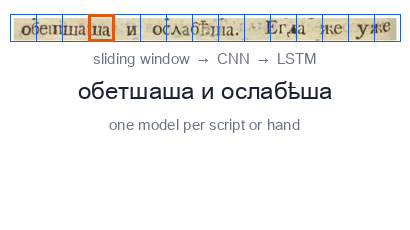
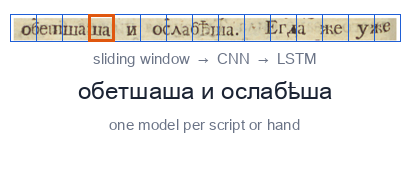
pre update

Changed region(s): [[0.0, 0.0562, 0.9951, 0.5899], [0.2634, 0.6742, 0.7317, 0.7303]]

diff --git a/courses/2026-2027/DHG502/slides/ocr/index.html b/courses/2026-2027/DHG502/slides/ocr/index.html
@@ -96,16 +96,24 @@
 <!-- 5 ─────────── History of OCR -->
 <section class="slide" id="s-history" data-sec="what">
   <h2>A short history of machine reading</h2>
-  <div class="ptl">
-    <div class="ev" data-step="1"><span class="yr">1960s</span><i></i><b>Template matching</b><p>Compare each character with stored shapes. Needs clean input and known fonts.</p><img class="tlimg" src="img/tl-1.png" alt=""></div>
-    <div class="ev" data-step="2"><span class="yr">LATE 1990s–2000s</span><i></i><b>Machine learning</b><p>Pattern classifiers. ABBYY FineReader and open-source Tesseract become standard.</p><img class="tlimg" src="img/tl-2.png" alt=""></div>
-    <div class="ev" data-step="3"><span class="yr">2010s</span><i></i><b>Deep networks</b><p>CNN + LSTM models; Transkribus brings HTR to historians. One model per script, hand or collection.</p><img class="tlimg" src="img/tl-3.png" alt=""></div>
-    <div class="ev" data-step="4"><span class="yr">LATE 2010s–</span><i></i><b>Transformers</b><p>Attention-based recognizers such as TrOCR, usually fine-tuned on your own transcribed pages.</p><img class="tlimg" src="img/tl-4.png" alt=""></div>
-    <div class="ev new" data-step="5"><span class="yr">2023–</span><i></i><b>Multimodal LLMs</b><p>General models that read an image <em>and</em> follow a prompt: GPT-4, Gemini, Claude, Qwen-VL, Llama Vision.</p><img class="tlimg" src="img/tl-5.png" alt=""></div>
+  <div class="atl"><div class="aline"></div>
+  <div class="acard top" data-step="1" style="left:0px"><i class="adot"></i><div class="atx"><span class="yr">1960s</span><b>Template matching</b><p>Compare each character with stored shapes. Needs clean input and known fonts.</p></div><img class="tlimg" src="img/tl-1.png" alt=""></div>
+  <div class="acard bot" data-step="2" style="left:194px"><i class="adot"></i><img class="tlimg" src="img/tl-2.png" alt=""><div class="atx"><span class="yr">Late 1990s–2000s</span><b>Machine learning</b><p>Pattern classifiers; ABBYY FineReader and open-source Tesseract become standard.</p></div></div>
+  <div class="acard top" data-step="3" style="left:389px"><i class="adot"></i><div class="atx"><span class="yr">2010s</span><b>Deep networks</b><p>CNN + LSTM models; Transkribus brings HTR to historians. One model per script or hand.</p></div><img class="tlimg" src="img/tl-3.png" alt=""></div>
+  <div class="acard bot" data-step="4" style="left:583px"><i class="adot"></i><img class="tlimg" src="img/tl-4.png" alt=""><div class="atx"><span class="yr">Late 2010s–</span><b>Transformers</b><p>Attention-based recognizers such as TrOCR, usually fine-tuned on your own pages.</p></div></div>
+  <div class="acard top new" data-step="5" style="left:778px"><i class="adot"></i><div class="atx"><span class="yr">2023–</span><b>Multimodal LLMs</b><p>General models that read an image and follow a prompt: GPT-4, Gemini, Claude, Qwen-VL, Llama Vision.</p></div><img class="tlimg" src="img/tl-5.png" alt=""></div>
+</div>
+</section>
+
+<!-- 5b ─────────── The big shift -->
+<section class="slide" id="s-shift" data-sec="what">
+  <h2>The big shift</h2>
+  <div class="row" style="gap:26px;margin-top:10px">
+    <div class="grow card ac2" data-step="1" style="padding:18px 24px"><h3>Before: a specialist per collection</h3><ul class="pts sm"><li>one model for <b>one script, hand or collection</b></li><li>needs <b>transcribed pages</b> to train (about 75 pages for a new hand, Humphries et al.)</li><li>poor out of the box on new material</li></ul></div>
+    <div class="arrowc" data-step="2" style="font-size:44px">→</div>
+    <div class="grow card ac3" data-step="2" style="padding:18px 24px"><h3>Now: a generalist, used with a prompt</h3><ul class="pts sm"><li>one model for <b>many scripts and tasks</b></li><li>used <b>out of the box</b>: image plus instruction in, text out</li><li>strong, but it brings a language prior (see the case studies)</li></ul></div>
   </div>
-  <div class="box-key" data-step="6" style="margin-top:22px">
-    <b>The big shift:</b> from a model trained <em>for one</em> script or collection (needs transcribed pages, ~75 pages for a new hand in Humphries et al.) to a general model used <em>out of the box</em>, with a prompt.
-  </div>
+  <div class="box-key" data-step="3" style="margin-top:26px">What changes for the historian: less training data and tooling, <b>more responsibility for checking</b> the output.</div>
 </section>
 
 <!-- 6 ─────────── Pipeline stages -->

diff --git a/courses/2026-2027/DHG502/slides/ocr/style.css b/courses/2026-2027/DHG502/slides/ocr/style.css
@@ -665,3 +665,19 @@ svg.arrows [data-step] { transform: none; }
 .ptl .ev .tlimg { margin-top: auto; }
 .ptl .ev p { margin-bottom: 12px; }
 #s-lessons .checklist li { font-size: 28px; margin: 22px 0; } #s-lessons .checklist li small { font-size: 20px; }
+
+/* alternating timeline */
+.atl { position: relative; height: 580px; margin-top: 6px; }
+.aline { position: absolute; left: 0; right: 0; top: 282px; height: 4px; background: var(--line); }
+.acard { position: absolute; width: 330px; }
+.acard.top { top: 0; height: 270px; display: flex; flex-direction: column; justify-content: flex-end; }
+.acard.bot { top: 300px; }
+.acard .atx { margin: 6px 0; }
+.acard .atx .yr { font-size: 13px; font-weight: 600; letter-spacing: .06em; text-transform: uppercase; color: var(--tgt); margin-right: 8px; }
+.acard.new .atx .yr { color: var(--col); }
+.acard .atx b { font-size: 21px; font-weight: 600; }
+.acard .atx p { margin: 2px 0 0; font-size: 16px; line-height: 1.35; color: #3a4357; }
+.acard .tlimg { margin: 0; width: 330px; }
+.acard .adot { position: absolute; left: 50%; width: 18px; height: 18px; margin-left: -9px; border-radius: 50%; background: var(--tgt); box-shadow: 0 0 0 5px #fff; }
+.acard.new .adot { background: var(--col); }
+.acard.top .adot { bottom: -20px; } .acard.bot .adot { top: -28px; }

diff --git a/courses/2026-2027/DHG502/notes/week-06/index.md b/courses/2026-2027/DHG502/notes/week-06/index.md
@@ -19,11 +19,13 @@ title: DHG 502 Week 6 Notes
 </ul>
 
 <h2>2. Choose a model</h2>
-<p>The model must accept <strong>images</strong>, not only text. We use:</p>
+<p>The model must accept <strong>images</strong>. Use one of the Qwen models:</p>
 <ul>
-<li><code>qwen/qwen3.5-9b</code> — a small, cheap multimodal model from Alibaba, good with Chinese.</li>
+<li>Qwen3.5-9B (<code>qwen/qwen3.5-9b</code>), our default</li>
+<li>Qwen3.7 Flash</li>
+<li>Qwen3.8 Flash</li>
 </ul>
-<p>Any other vision model on <a href="https://openrouter.ai/models?input_modalities=image">OpenRouter</a> can be swapped in by changing the model name. Reasoning should be switched <strong>off</strong>; it only makes OCR slower.</p>
+<p>Experiment: run the same page with each model and compare the results. To switch, copy the model ID from its <a href="https://openrouter.ai/models">OpenRouter</a> page into <code>ocr.py</code>. Keep reasoning <strong>off</strong>.</p>
 
 <h2>3. In-class exercise</h2>
 <p>Start <code>opencode</code> in your repo (your OpenRouter key from Week 1 is already connected) and paste:</p>
@@ -33,7 +35,7 @@ title: DHG 502 Week 6 Notes
 
 - Endpoint: https://openrouter.ai/api/v1/chat/completions
 - Model: qwen/qwen3.5-9b, with reasoning disabled ("reasoning": {"enabled": false}).
-- Send the image as a base64 data URL (image_url) together with a text prompt asking for OCR: transcribe all text exactly as it appears, preserve line breaks, output only the text.
+- Send the image as a base64 data URL (image_url) together with a text prompt asking for OCR: transcribe all text exactly as it appears, preserve line breaks, output only the text. In the message content, put the image first and the text prompt after it.
 - Read the API key from the environment variable OPENROUTER_API_KEY (do not hard-code it).
 - Use only the Python standard library, set a timeout, and print the result.
 - Also save the result to hongloumeng.txt.</pre>
